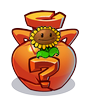
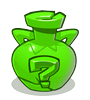
feat(vase): color-coded vases (green plant / purple zombie) + plant vases grant free draggable cards (v3.4.1 -> v3.4.2-vase-colors-cards)
Vase visuals:
- Vase_Plant.png and Vase_Zombie.png are no longer label-stamped (sunflower
  head / 'Z'). Both are now HSV hue-swap tints of the official PvZ3 question
  vase: plant vase hue 98deg (green, belly rgb ~(87,204,19)), zombie vase hue
  272deg (purple, belly ~(117,19,204)), question vase unchanged (orange hue 22).
  S/V preserved per pixel so shading/highlights survive; near-black outlines &
  pure-white glints kept neutral. 90x100 RGBA, alpha untouched. Game already
  picks sprite by type in setupVases(), so colors now appear on the field and
  the legend (绿罐=植物，紫罐=僵尸，问号罐=?) matches reality.

Plant-vase mechanic (user request: smash a plant vase -> get a plant CARD
you drag onto any lawn cell, not an auto-plant):
- grantVasePlantCard(): pick type from the weighted pool, append a .seed-card
  (.vase-free-card) into the HUD seed-bank backed by Card/Plants/<Name>.png,
  dataset cost=0; push to this.vaseFreeCards; +20 score; guiding toast.
- tryPlanting(): new first branch - if an unconsumed vase free card matches
  the type, plant for free (no sun/cooldown) at the dropped cell; card is
  consumed only on a successful placement (canPlant), stays if cell blocked.
- plantCardArt(): type->Card/Plants filename map (exact case, deploy-safe).
- assetStamp(): reads current ?v= stamp from seeds[0].img so card art is
  cache-busted consistently.
- constructor + startGame() reset vaseFreeCards.
- CSS: .seed-card.vase-free-card gold ring + hover brighten to distinguish
[…]

diff --git a/pvz-web/js/GameLoop.js b/pvz-web/js/GameLoop.js
@@ -47,6 +47,7 @@ class Game {
         
         this.fusionMode = false;
         this.vaseMode = false; // 砸罐子模式标志（v3.4.1 修复：此前从未被赋值，导致砸罐模式无法启动）
+        this.vaseFreeCards = []; // 砸罐子：植物罐砸出的免费一次性植物卡 {type, element, consumed}
         
         this.lastTime = 0;
         
@@ -207,6 +208,7 @@ class Game {
         const seedBank = document.getElementById('seed-bank');
         seedBank.innerHTML = ''; // clear
         this.cooldowns = {};
+        this.vaseFreeCards = []; // 砸罐子：清空上一局残留的免费植物卡
         
         if (this.fusionMode) {
             document.getElementById('glove-bank').style.display = 'flex';
@@ -249,32 +251,32 @@ class Game {
     initUI() {
         // Just define the seeds, don't populate the top bar yet
         this.seeds = [
-            { type: 'sunflower', cost: 50, cooldown: 7.5, img: 'assets/images/Card/Plants/SunFlower.png?v=1788789889' },
-            { type: 'twinsunflower', cost: 150, cooldown: 50, img: 'assets/images/Card/Plants/TwinSunflower.png?v=1788789889' },
-            { type: 'sunshroom', cost: 25, cooldown: 7.5, img: 'assets/images/Card/Plants/SunShroom.png?v=1788789889' },
-            { type: 'peashooter', cost: 100, cooldown: 7.5, img: 'assets/images/Card/Plants/Peashooter.png?v=1788789889' },
-            { type: 'repeater', cost: 200, cooldown: 7.5, img: 'assets/images/Card/Plants/Repeater.png?v=1788789889' },
-            { type: 'threepeater', cost: 300, cooldown: 7.5, img: 'assets/images/Card/Plants/Threepeater.png?v=1788789889' },
-            { type: 'gatlingpea', cost: 250, cooldown: 50, img: 'assets/images/Card/Plants/GatlingPea.png?v=1788789889' },
-            { type: 'snowpea', cost: 175, cooldown: 7.5, img: 'assets/images/Card/Plants/SnowPea.png?v=1788789889' },
-            { type: 'splitpea', cost: 125, cooldown: 7.5, img: 'assets/images/Card/Plants/SplitPea.png?v=1788789889' },
-            { type: 'torchwood', cost: 175, cooldown: 7.5, img: 'assets/images/Card/Plants/Torchwood.png?v=1788789889' },
-            { type: 'wallnut', cost: 50, cooldown: 30, img: 'assets/images/Card/Plants/WallNut.png?v=1788789889' },
-            { type: 'cherrybomb', cost: 150, cooldown: 50, img: 'assets/images/Card/Plants/CherryBomb.png?v=1788789889' },            { type: 'squash', cost: 50, cooldown: 30, img: 'assets/images/Card/Plants/Squash.png?v=1788789889' },
-            { type: 'jalapeno', cost: 125, cooldown: 50, img: 'assets/images/Card/Plants/Jalapeno.png?v=1788789889' },
-            { type: 'potatomine', cost: 25, cooldown: 30, img: 'assets/images/Card/Plants/PotatoMine.png?v=1788789889' },
-            { type: 'chomper', cost: 150, cooldown: 7.5, img: 'assets/images/Card/Plants/Chomper.png?v=1788789889' },
-            { type: 'tallnut', cost: 125, cooldown: 30, img: 'assets/images/Card/Plants/TallNut.png?v=1788789889' },
-            { type: 'puffshroom', cost: 0, cooldown: 7.5, img: 'assets/images/Card/Plants/PuffShroom.png?v=1788789889' },
-            { type: 'fumeshroom', cost: 75, cooldown: 7.5, img: 'assets/images/Card/Plants/FumeShroom.png?v=1788789889' },
-            { type: 'scaredyshroom', cost: 25, cooldown: 7.5, img: 'assets/images/Card/Plants/ScaredyShroom.png?v=1788789889' },
-            { type: 'gloomshroom', cost: 150, cooldown: 7.5, img: 'assets/images/Card/Plants/GloomShroom.png?v=1788789889' },
-            { type: 'spikerock', cost: 125, cooldown: 7.5, img: 'assets/images/Card/Plants/Spikerock.png?v=1788789889' },
-            { type: 'cattail', cost: 225, cooldown: 7.5, img: 'assets/images/Card/Plants/Cattail.png?v=1788789889' },
-            { type: 'melonpult', cost: 300, cooldown: 7.5, img: 'assets/images/Card/Plants/MelonPult.png?v=1788789889' },{ type: 'iceshroom', cost: 75, cooldown: 50, img: 'assets/images/Card/Plants/IceShroom.png?v=1788789889' },
-            { type: 'doomshroom', cost: 125, cooldown: 50, img: 'assets/images/Card/Plants/DoomShroom.png?v=1788789889' },
-            { type: 'spikeweed', cost: 100, cooldown: 7.5, img: 'assets/images/Card/Plants/Spikeweed.png?v=1788789889' },
-            { type: 'garlic', cost: 50, cooldown: 7.5, img: 'assets/images/Card/Plants/Garlic.png?v=1788789889' }
+            { type: 'sunflower', cost: 50, cooldown: 7.5, img: 'assets/images/Card/Plants/SunFlower.png?v=1788790452' },
+            { type: 'twinsunflower', cost: 150, cooldown: 50, img: 'assets/images/Card/Plants/TwinSunflower.png?v=1788790452' },
+            { type: 'sunshroom', cost: 25, cooldown: 7.5, img: 'assets/images/Card/Plants/SunShroom.png?v=1788790452' },
+            { type: 'peashooter', cost: 100, cooldown: 7.5, img: 'assets/images/Card/Plants/Peashooter.png?v=1788790452' },
+            { type: 'repeater', cost: 200, cooldown: 7.5, img: 'assets/images/Card/Plants/Repeater.png?v=1788790452' },
+            { type: 'threepeater', cost: 300, cooldown: 7.5, img: 'assets/images/Card/Plants/Threepeater.png?v=1788790452' },
+            { type: 'gatlingpea', cost: 250, cooldown: 50, img: 'assets/images/Card/Plants/GatlingPea.png?v=1788790452' },
+            { type: 'snowpea', cost: 175, cooldown: 7.5, img: 'assets/images/Card/Plants/SnowPea.png?v=1788790452' },
+            { type: 'splitpea', cost: 125, cooldown: 7.5, img: 'assets/images/Card/Plants/SplitPea.png?v=1788790452' },
+            { type: 'torchwood', cost: 175, cooldown: 7.5, img: 'assets/images/Card/Plants/Torchwood.png?v=1788790452' },
+            { type: 'wallnut', cost: 50, cooldown: 30, img: 'assets/images/Card/Plants/WallNut.png?v=1788790452' },
+            { type: 'cherrybomb', cost: 150, cooldown: 50, img: 'assets/images/Card/Plants/CherryBomb.png?v=1788790452' },            { type: 'squash', cost: 50, cooldown: 30, img: 'assets/images/Card/Plants/Squash.png?v=1788790452' },
+            { type: 'jalapeno', cost: 125, cooldown: 50, img: 'assets/images/Card/Plants/Jalapeno.png?v=1788790452' },
+            { type: 'potatomine', cost: 25, cooldown: 30, img: 'assets/images/Card/Plants/PotatoMine.png?v=1788790452' },
+            { type: 'chomper', cost: 150, cooldown: 7.5, img: 'assets/images/Card/Plants/Chomper.png?v=1788790452' },
+            { type: 'tallnut', cost: 125, cooldown: 30, img: 'assets/images/Card/Plants/TallNut.png?v=1788790452' },
+            { type: 'puffshroom', cost: 0, cooldown: 7.5, img: 'assets/images/Card/Plants/PuffShroom.png?v=1788790452' },
+            { type: 'fumeshroom', cost: 75, cooldown: 7.5, img: 'assets/images/Card/Plants/FumeShroom.png?v=1788790452' },
+            { type: 'scaredyshroom', cost: 25, cooldown: 7.5, img: 'assets/images/Card/Plants/ScaredyShroom.png?v=1788790452' },
+            { type: 'gloomshroom', cost: 150, cooldown: 7.5, img: 'assets/images/Card/Plants/GloomShroom.png?v=1788790452' },
+            { type: 'spikerock', cost: 125, cooldown: 7.5, img: 'assets/images/Card/Plants/Spikerock.png?v=1788790452' },
+            { type: 'cattail', cost: 225, cooldown: 7.5, img: 'assets/images/Card/Plants/Cattail.png?v=1788790452' },
+            { type: 'melonpult', cost: 300, cooldown: 7.5, img: 'assets/images/Card/Plants/MelonPult.png?v=1788790452' },{ type: 'iceshroom', cost: 75, cooldown: 50, img: 'assets/images/Card/Plants/IceShroom.png?v=1788790452' },
+            { type: 'doomshroom', cost: 125, cooldown: 50, img: 'assets/images/Card/Plants/DoomShroom.png?v=1788790452' },
+            { type: 'spikeweed', cost: 100, cooldown: 7.5, img: 'assets/images/Card/Plants/Spikeweed.png?v=1788790452' },
+            { type: 'garlic', cost: 50, cooldown: 7.5, img: 'assets/images/Card/Plants/Garlic.png?v=1788790452' }
         ];
         // The top bar will be populated in startGame() after selection
     }
@@ -306,7 +308,7 @@ class Game {
             { a: 'puffshroom', b: 'sunflower', result: '阳光菇', img: 'assets/images/Plants/SunShroom/SunShroom.gif', css: false },
             { a: 'puffshroom', b: 'peashooter', result: '胆小菇', img: 'assets/images/Plants/ScaredyShroom/ScaredyShroom.gif', css: false },
             { a: 'wallnut', b: 'jalapeno', result: '火炬树桩', img: 'assets/images/Plants/Torchwood/Torchwood.gif', css: false },
-            { a: 'chomper', b: 'tallnut', result: '西瓜投手', img: 'assets/images/Plants/MelonPult/MelonPult.png?v=1788789889', css: false },
+            { a: 'chomper', b: 'tallnut', result: '西瓜投手', img: 'assets/images/Plants/MelonPult/MelonPult.png?v=1788790452', css: false },
             { a: 'peashooter', b: 'sunflower', result: '豌豆向日葵', base: 'assets/images/Plants/SunFlower/SunFlower1.gif', over: 'assets/images/Plants/Peashooter/Peashooter.gif', overClip: 'polygon(0 0, 100% 0, 100% 65%, 0 65%)', overTransform: 'translate(0px, -20px) scale(1.0)' },
             { a: 'peashooter', b: 'wallnut', result: '坚果射手', base: 'assets/images/Plants/WallNut/WallNut.gif', over: 'assets/images/Plants/Peashooter/Peashooter.gif', overClip: 'polygon(0 0, 100% 0, 100% 65%, 0 65%)', overTransform: 'translate(5px, -15px) scale(1.0)' },
             { a: 'snowpea', b: 'cherrybomb', result: '寒冰炸弹', img: 'assets/images/Plants/CherryBomb/CherryBomb.gif', filter: 'hue-rotate(180deg) saturate(1.5)', css: false },
@@ -315,7 +317,7 @@ class Game {
             { a: 'snowpea', b: 'wallnut', result: '寒冰坚果', img: 'assets/images/Plants/WallNut/WallNut.gif', filter: 'hue-rotate(180deg) saturate(1.5) brightness(1.2)', css: false },
             { a: 'peashooter', b: 'cherrybomb', result: '樱桃射手', img: 'assets/images/Plants/Peashooter/Peashooter.gif', filter: 'hue-rotate(-45deg) saturate(2.0)', css: false },
             { a: 'sunflower', b: 'doomshroom', result: '毁灭向日葵', img: 'assets/images/Plants/SunFlower/SunFlower1.gif', filter: 'grayscale(0.8) brightness(0.6) sepia(1) hue-rotate(240deg) saturate(3)', css: false },
-            { a: 'melonpult', b: 'iceshroom', result: '冰西瓜投手', img: 'assets/images/Plants/WinterMelon/WinterMelon.png?v=1788789889', css: false },
+            { a: 'melonpult', b: 'iceshroom', result: '冰西瓜投手', img: 'assets/images/Plants/WinterMelon/WinterMelon.png?v=1788790452', css: false },
             { a: 'repeater', b: 'spikeweed', result: '猫尾草', img: 'assets/images/Plants/Cattail/Cattail.gif', css: false },
             { a: 'fumeshroom', b: 'fumeshroom', result: '忧郁菇', img: 'assets/images/Plants/GloomShroom/GloomShroom.gif', css: false },
             { a: 'spikeweed', b: 'spikeweed', result: '钢地刺', img: 'assets/images/Plants/Spikerock/Spikerock.gif', css: false },
@@ -325,8 +327,8 @@ class Game {
             { a: 'splitpea', b: 'sunflower', result: '杨桃', img: 'assets/images/Plants/Starfruit/Starfruit.gif', css: false },
             { a: 'puffshroom', b: 'garlic', result: '魅惑菇', img: 'assets/images/Plants/HypnoShroom/HypnoShroom.gif', css: false },
             { a: 'wallnut', b: 'tallnut', result: '南瓜壳（可套在任意植物上）', img: 'assets/images/Plants/PumpkinHead/PumpkinHead.gif', css: false },
-            { a: 'melonpult', b: 'cattail', result: '西瓜猫尾草', base: 'assets/images/Plants/Cattail/Cattail.gif', over: 'assets/images/Plants/MelonPult/MelonPult.png?v=1788789889', overTransform: 'translate(-5px, -30px) scale(0.7)' },
-            { a: 'wintermelon', b: 'cattail', result: '冰西瓜猫尾草', base: 'assets/images/Plants/Cattail/Cattail.gif', over: 'assets/images/Plants/WinterMelon/WinterMelon.png?v=1788789889', overTransform: 'translate(-5px, -30px) scale(0.7)' }
+            { a: 'melonpult', b: 'cattail', result: '西瓜猫尾草', base: 'assets/images/Plants/Cattail/Cattail.gif', over: 'assets/images/Plants/MelonPult/MelonPult.png?v=1788790452', overTransform: 'translate(-5px, -30px) scale(0.7)' },
+            { a: 'wintermelon', b: 'cattail', result: '冰西瓜猫尾草', base: 'assets/images/Plants/Cattail/Cattail.gif', over: 'assets/images/Plants/WinterMelon/WinterMelon.png?v=1788790452', overTransform: 'translate(-5px, -30px) scale(0.7)' }
         ];
         
         const list = document.getElementById('recipe-list');
@@ -357,8 +359,8 @@ class Game {
                     'fumeshroom': 'assets/images/Plants/FumeShroom/FumeShroom.gif',
                     'spikeweed': 'assets/images/Plants/Spikeweed/Spikeweed.gif',
                     'tallnut': 'assets/images/Plants/TallNut/TallNut.gif',
-                    'melonpult': 'assets/images/Plants/MelonPult/MelonPult.png?v=1788789889',
-                    'wintermelon': 'assets/images/Plants/WinterMelon/WinterMelon.png?v=1788789889',
+                    'melonpult': 'assets/images/Plants/MelonPult/MelonPult.png?v=1788790452',
+                    'wintermelon': 'assets/images/Plants/WinterMelon/WinterMelon.png?v=1788790452',
                     'cattail': 'assets/images/Plants/Cattail/Cattail.gif',
                     'gloomshroom': 'assets/images/Plants/GloomShroom/GloomShroom.gif',
                     'spikerock': 'assets/images/Plants/Spikerock/Spikerock.gif',
@@ -616,6 +618,25 @@ class Game {
     }
     
     tryPlanting(type, row, col) {
+        // 砸罐子模式：植物罐砸出的免费一次性植物卡 —— 无阳光、无冷却，种下即消耗
+        if (this.vaseFreeCards && this.vaseFreeCards.length > 0) {
+            const fc = this.vaseFreeCards.find(c => !c.consumed && c.type === type);
+            if (fc) {
+                if (this.board.canPlant(row, col)) {
+                    const plant = new Plant(this, type);
+                    if (this.board.addPlant(plant, row, col)) {
+                        fc.consumed = true;
+                        if (fc.element && fc.element.parentNode) {
+                            fc.element.parentNode.removeChild(fc.element);
+                        }
+                        this.updateUI();
+                        this.audioManager.play('plant');
+                    }
+                }
+                return; // 无论成功与否都走免费卡逻辑（失败不消耗卡）
+            }
+        }
+
         if (this.cooldowns[type] > 0) return; // Still cooling down
         
         const seed = this.seeds.find(s => s.type === type);
@@ -1017,7 +1038,7 @@ class Game {
                           : types[i] === 'zombie' ? 'Vase_Zombie.png'
                           : 'Vase_Question.png';
             const img = document.createElement('img');
-            img.src = 'assets/images/Vase/' + sprite + '?v=1788789889'; // v= 占位，bump_version 替换为新 cache-buster
+            img.src = 'assets/images/Vase/' + sprite + '?v=1788790452'; // v= 占位，bump_version 替换为新 cache-buster
             img.className = 'entity vase-entity';
             img.style.pointerEvents = 'none';
             const cx = this.board.offsetX + v.col * this.board.cellWidth + this.board.cellWidth / 2;
@@ -1047,14 +1068,14 @@ class Game {
             el.style.opacity = '0';
             setTimeout(() => { if (el.parentNode) el.parentNode.removeChild(el); }, 200);
         }
-        // 按类型揭示内容
+        // 按类型揭示内容（植物罐 = 奖励一张免费植物卡，可拖到任意格子种植）
         if (v.type === 'plant') {
-            this.revealPlantFromVase(v);
+            this.grantVasePlantCard(v);
         } else if (v.type === 'zombie') {
             this.revealZombieFromVase(v);
         } else {
             // question：55% 植物 / 45% 僵尸
-            if (Math.random() < 0.55) this.revealPlantFromVase(v);
+            if (Math.random() < 0.55) this.grantVasePlantCard(v);
             else this.revealZombieFromVase(v);
         }
         // 罐子减少提示
@@ -1062,7 +1083,23 @@ class Game {
         this.checkVaseVictory();
     }
 
-    revealPlantFromVase(vase) {
+    // type -> Card/Plants 素材文件名（大小写与 git 入库路径严格一致，部署环境大小写敏感！）
+    plantCardArt(type) {
+        const map = {
+            peashooter: 'Peashooter', snowpea: 'SnowPea', repeater: 'Repeater',
+            sunflower: 'SunFlower', wallnut: 'WallNut', cherrybomb: 'CherryBomb',
+            squash: 'Squash', jalapeno: 'Jalapeno', potatomine: 'PotatoMine',
+            chomper: 'Chomper', puffshroom: 'PuffShroom', fumeshroom: 'FumeShroom',
+            spikeweed: 'Spikeweed', threepeater: 'Threepeater', splitpea: 'SplitPea',
+            gatlingpea: 'GatlingPea', melonpult: 'MelonPult', tallnut: 'TallNut',
+            iceshroom: 'IceShroom', doomshroom: 'DoomShroom', cattail: 'Cattail',
+            wintermelon: 'WinterMelon', torchwood: 'Torchwood', garlic: 'Garlic',
+            sunshroom: 'SunShroom', scaredyshroom: 'ScaredyShroom', twinSunflower: 'TwinSunflower'
+        };
+        return map[type] || null;
+    }
+
+    grantVasePlantCard(vase) {
         // 砸出植物池：偏向战斗型，少数防御/经济
         const pool = [
             'peashooter','peashooter','peashooter',
@@ -1084,13 +1121,32 @@ class Game {
             'tallnut'
         ];
         const type = pool[Math.floor(Math.random() * pool.length)];
-        const plant = new Plant(this, type);
-        if (this.board.addPlant(plant, vase.row, vase.col)) {
-            this.audioManager.play('plant');
-            this.score += 20;
-            this.updateScore();
-            this.showAnnouncement(`植物罐：${this.getPlantName(type)} 加入战斗！`, '#66ff66');
+        const art = this.plantCardArt(type);
+        const el = document.createElement('div');
+        el.className = 'seed-card vase-free-card';
+        el.dataset.type = type;
+        el.dataset.cost = 0;
+        el.dataset.cooldown = 0.5;
+        if (art) {
+            el.style.backgroundImage = `url('assets/images/Card/Plants/${art}.png?v=${this.assetStamp()}')`;
         }
+        el.innerHTML = '<div class="cooldown-overlay"></div>';
+        el.title = `${this.getPlantName(type)}（免费 · 拖到草地上种植）`;
+        const bank = document.getElementById('seed-bank');
+        if (bank) bank.appendChild(el);
+
+        this.vaseFreeCards.push({ type, element: el, consumed: false });
+        this.updateUI();
+        this.audioManager.play('plant');
+        this.score += 20;
+        this.updateScore();
+        this.showAnnouncement(`植物罐：获得「${this.getPlantName(type)}」卡片！拖到草地上任意格子种植`, '#66ff66');
+    }
+
+    assetStamp() {
+        // 与 bump_version.py 同步的缓存戳：读取当前 URL 使用的 ?v=（取第一个种子图片的值兜底）
+        const m = (this.seeds && this.seeds[0] && this.seeds[0].img || '').match(/v=(\d+)/);
+        return m ? m[1] : '';
     }
 
     revealZombieFromVase(vase) {

diff --git a/pvz-web/index.html b/pvz-web/index.html
@@ -4,7 +4,7 @@
     <meta charset="UTF-8" data-page-node-id="fvct4kKB77qx0aDFZg0TFG">
     <meta name="viewport" content="width=device-width, initial-scale=1.0" data-page-node-id="7cXFTDee52Hp5l8aujUlmz">
     <title>Plants vs Zombies - Web Clone</title>
-    <link rel="stylesheet" href="css/style.css?v=1788789889" data-page-node-id="Q5lrPWp6xqtldfdpxSWXxH">
+    <link rel="stylesheet" href="css/style.css?v=1788790452" data-page-node-id="Q5lrPWp6xqtldfdpxSWXxH">
 </head>
 <body data-page-node-id="lPg8spSQ9t6E6ZEWT8akzU">
     <div id="game-container" data-page-node-id="dle8H483OJAxh7uRwqXTVW">
@@ -267,16 +267,16 @@
                 });
         })();
     </script>
-    <script src="js/InputManager.js?v=1788789889"></script>
-    <script src="js/Board.js?v=1788789889"></script>
-    <script src="js/entities/Entity.js?v=1788789889"></script>
-    <script src="js/entities/Plant.js?v=1788789889"></script>
-    <script src="js/entities/Zombie.js?v=1788789889"></script>
-    <script src="js/entities/Projectile.js?v=1788789889"></script>
-    <script src="js/entities/Sun.js?v=1788789889"></script>
-    <script src="js/managers/WaveManager.js?v=1788789889"></script>
-    <script src="js/managers/CollisionManager.js?v=1788789889"></script>
-    <script src="js/managers/EventManager.js?v=1788789889"></script>
-    <script src="js/GameLoop.js?v=1788789889"></script>
+    <script src="js/InputManager.js?v=1788790452"></script>
+    <script src="js/Board.js?v=1788790452"></script>
+    <script src="js/entities/Entity.js?v=1788790452"></script>
+    <script src="js/entities/Plant.js?v=1788790452"></script>
+    <script src="js/entities/Zombie.js?v=1788790452"></script>
+    <script src="js/entities/Projectile.js?v=1788790452"></script>
+    <script src="js/entities/Sun.js?v=1788790452"></script>
+    <script src="js/managers/WaveManager.js?v=1788790452"></script>
+    <script src="js/managers/CollisionManager.js?v=1788790452"></script>
+    <script src="js/managers/EventManager.js?v=1788790452"></script>
+    <script src="js/GameLoop.js?v=1788790452"></script>
 </body>
 </html>

diff --git a/pvz-web/js/entities/Projectile.js b/pvz-web/js/entities/Projectile.js
@@ -19,12 +19,12 @@ class Projectile extends Entity {
             this.element.src = 'assets/images/Plants/ShroomBullet.gif';
             this.damage = 40;
         } else if (type === 'melon') {
-            this.element.src = 'assets/images/Plants/MelonPult/Melon.png?v=1788789889';
+            this.element.src = 'assets/images/Plants/MelonPult/Melon.png?v=1788790452';
             this.element.style.transform = 'scale(1.0)';
             this.element.style.borderRadius = '50%';
             this.damage = 60;
         } else if (type === 'wintermelon') {
-            this.element.src = 'assets/images/Plants/MelonPult/WinterMelon.png?v=1788789889';
+            this.element.src = 'assets/images/Plants/MelonPult/WinterMelon.png?v=1788790452';
             this.element.style.transform = 'scale(1.0)';
             this.element.style.borderRadius = '50%';
             this.damage = 60;
@@ -34,13 +34,13 @@ class Projectile extends Entity {
             this.damage = 20;
             this.speed = 400;
         } else if (type === 'cattail_melon') {
-            this.element.src = 'assets/images/Plants/MelonPult/Melon_small.png?v=1788789889';
+            this.element.src = 'assets/images/Plants/MelonPult/Melon_small.png?v=1788790452';
             this.element.style.transform = 'scale(0.8)';
             this.element.style.borderRadius = '50%';
             this.damage = 60;
             this.speed = 400;
         } else if (type === 'cattail_wintermelon') {
-            this.element.src = 'assets/images/Plants/MelonPult/WinterMelon_small.png?v=1788789889';
+            this.element.src = 'assets/images/Plants/MelonPult/WinterMelon_small.png?v=1788790452';
             this.element.style.transform = 'scale(0.8)';
             this.element.style.borderRadius = '50%';
             this.damage = 60;

diff --git a/pvz-web/js/entities/Plant.js b/pvz-web/js/entities/Plant.js
@@ -153,12 +153,12 @@ class Plant extends Entity {
             stat.hp = 300;
             stat.fireRate = 1.0;
             stat.fireTimer = 0;
-            stat.src = 'assets/images/Plants/MelonPult/MelonPult.png?v=1788789889';
+            stat.src = 'assets/images/Plants/MelonPult/MelonPult.png?v=1788790452';
         } else if (type === 'wintermelon') {
             stat.hp = 300;
             stat.fireRate = 1.0;
             stat.fireTimer = 0;
-            stat.src = 'assets/images/Plants/WinterMelon/WinterMelon.png?v=1788789889';
+            stat.src = 'assets/images/Plants/WinterMelon/WinterMelon.png?v=1788790452';
         }
         
 

diff --git a/pvz-web/js/InputManager.js b/pvz-web/js/InputManager.js
@@ -152,8 +152,8 @@ class InputManager {
             // Melon / Winter Melon 图是 PNG，其他植物是 GIF
             const isMelonSprite = imgName === 'MelonPult/MelonPult' || imgName === 'WinterMelon/WinterMelon';
             const url = isMelonSprite
-                ? `assets/images/Plants/${imgName}.png?v=1788789889`
-                : `assets/images/Plants/${imgName}.gif?v=1788789889`;
+                ? `assets/images/Plants/${imgName}.png?v=1788790452`
+                : `assets/images/Plants/${imgName}.gif?v=1788790452`;
             this.dragGhost.style.backgroundImage = `url('${url}')`;
         }
     }

diff --git a/pvz-web/css/style.css b/pvz-web/css/style.css
@@ -161,6 +161,16 @@ body {
     cursor: not-allowed;
 }
 
+/* 砸罐子：植物罐砸出的免费一次性植物卡 */
+.seed-card.vase-free-card {
+    box-shadow: 0 0 6px 1px rgba(255, 220, 120, 0.95), 1px 1px 3px rgba(0,0,0,0.5);
+    outline: 1px solid rgba(255, 200, 60, 0.8);
+    outline-offset: 1px;
+}
+.seed-card.vase-free-card:hover {
+    filter: brightness(1.15);
+}
+
 .cooldown-overlay {
     position: absolute;
     bottom: 0;
